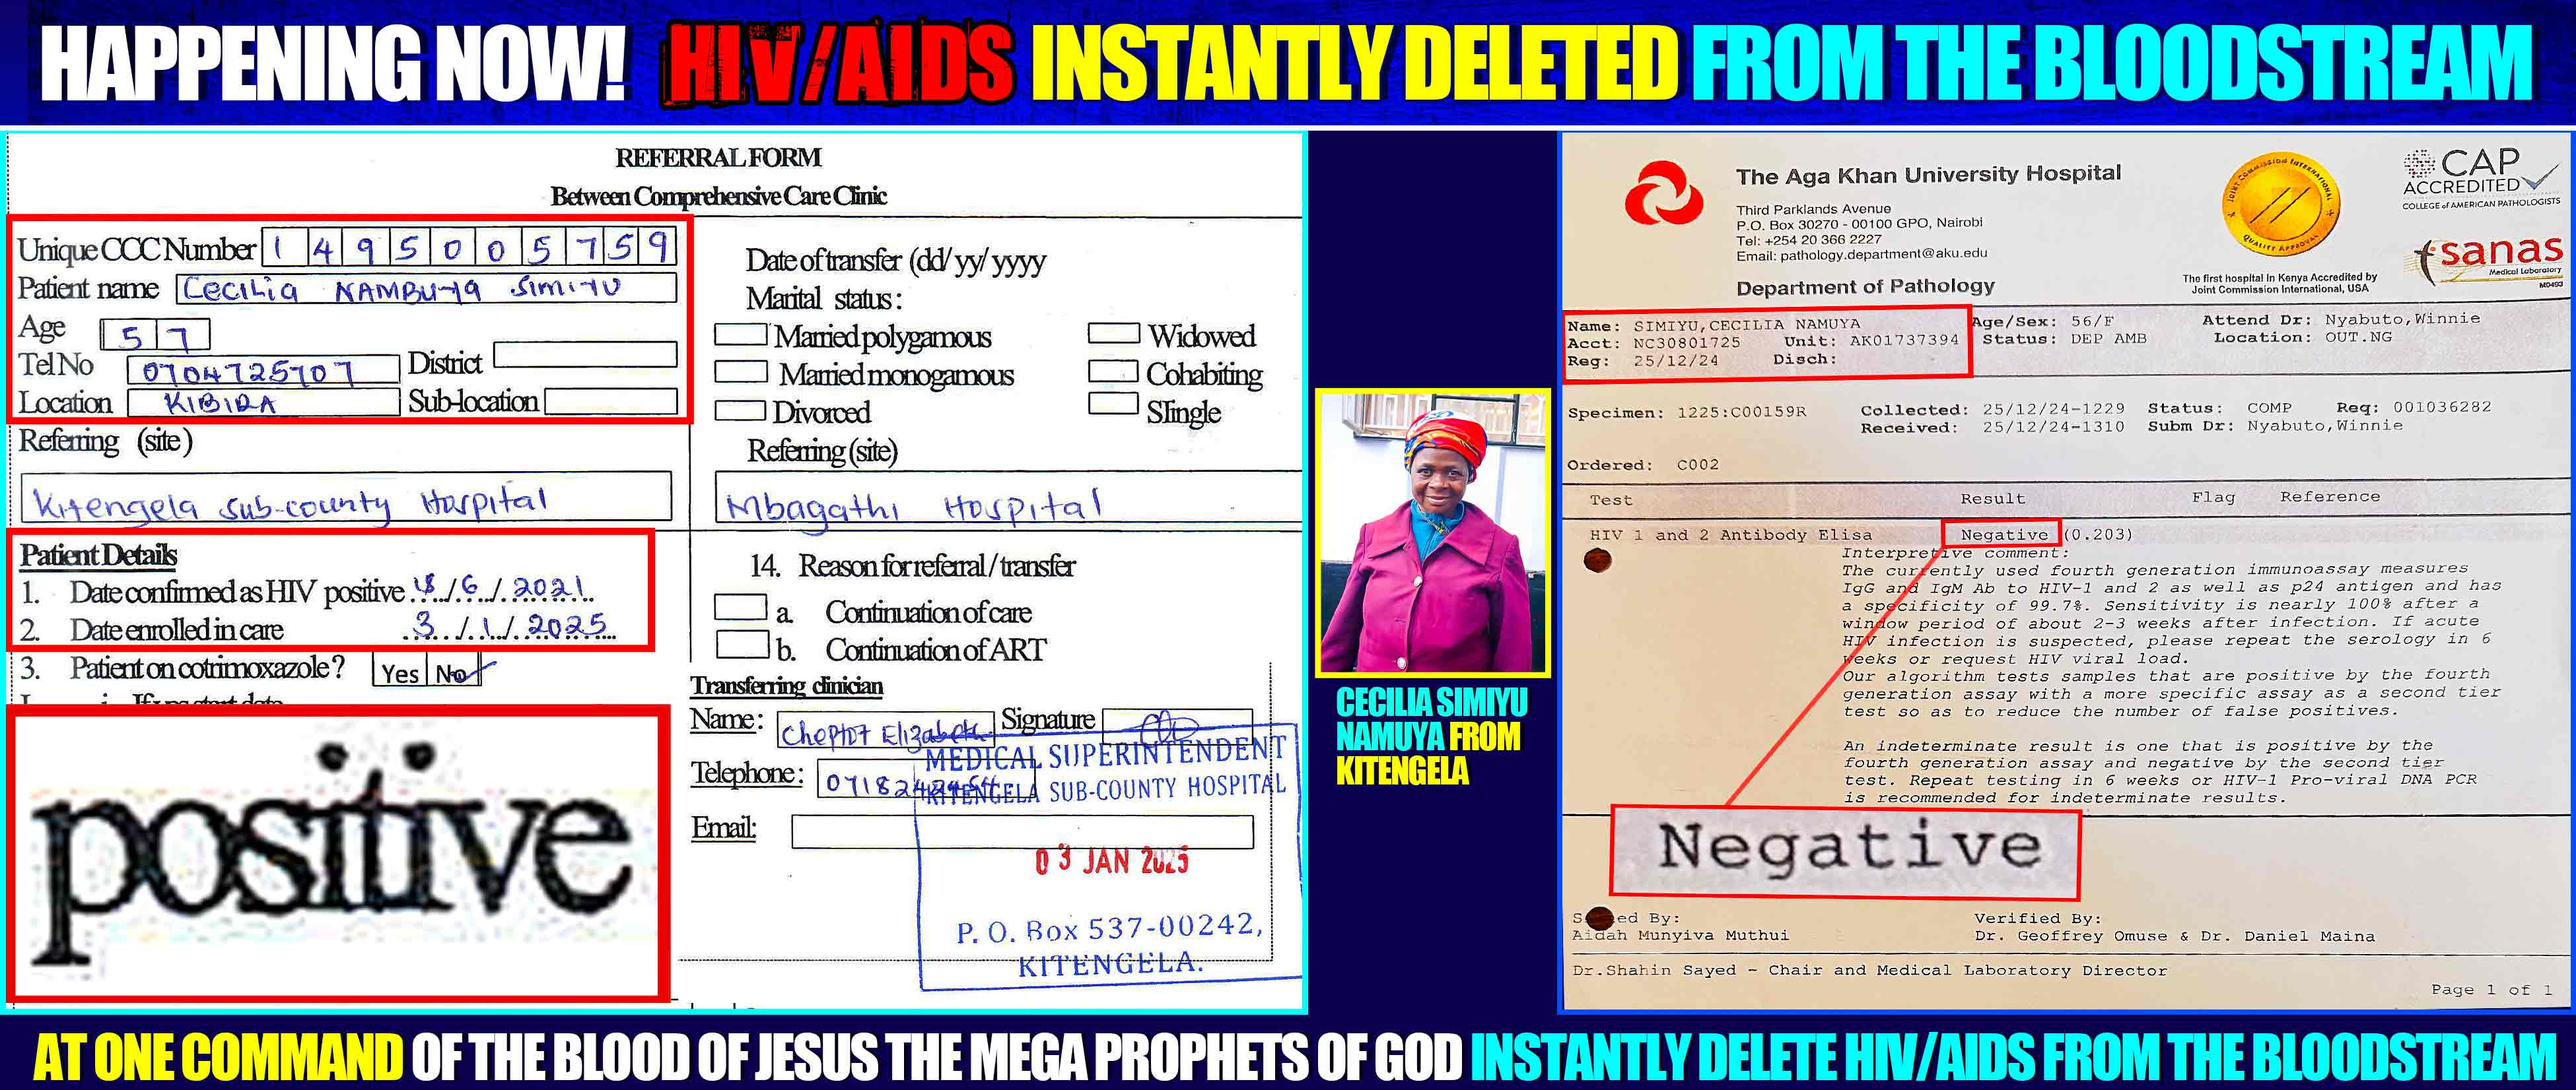
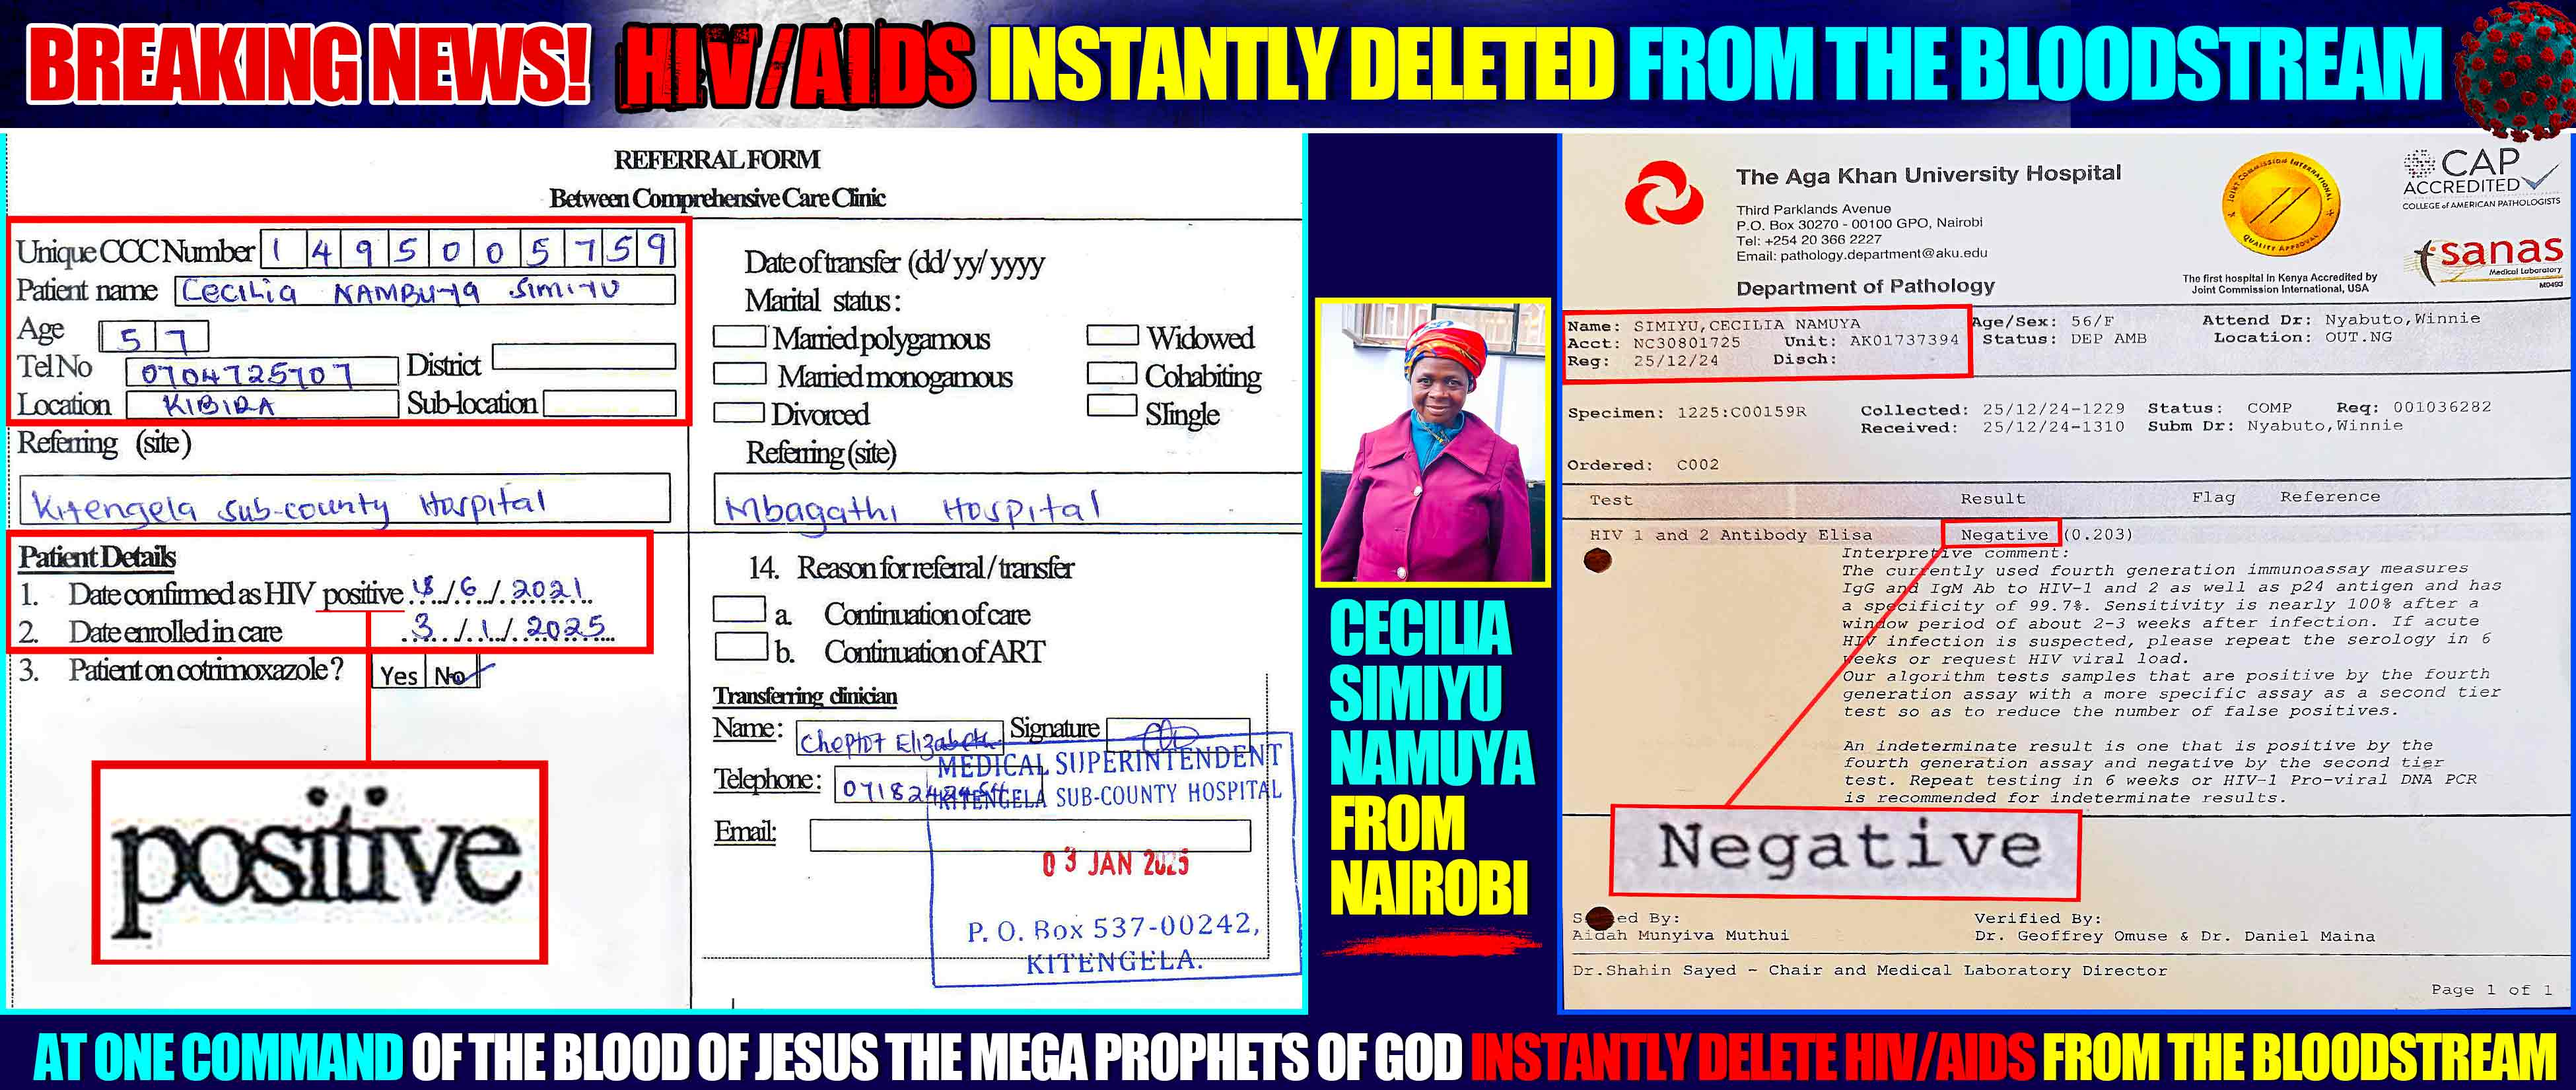
new

Changed region(s): [[0.0, 0.0, 1.0, 1.0], [0.5583, 0.9262, 0.9926, 1.0]]

diff --git a/index.html b/index.html
@@ -10,7 +10,7 @@
     <div class="slideshow-container">
 
        
-        <img class="slideshow" src= "https://pub-9f92551086574e82abebdc7b9c83cf92.r2.dev/Maputo%20-%202025/Healings%20in%20Kenya/Mary-Purity---Kisumu---Lame.jpg" alt="Unstable internet, please refresh the browser">
+        <img class="slideshow" src= "https://pub-9f92551086574e82abebdc7b9c83cf92.r2.dev/Maputo%20-%202025/HIV%20HEALED/1.-PCR.jpg" alt="Unstable internet, please refresh the browser">
 
 
 
